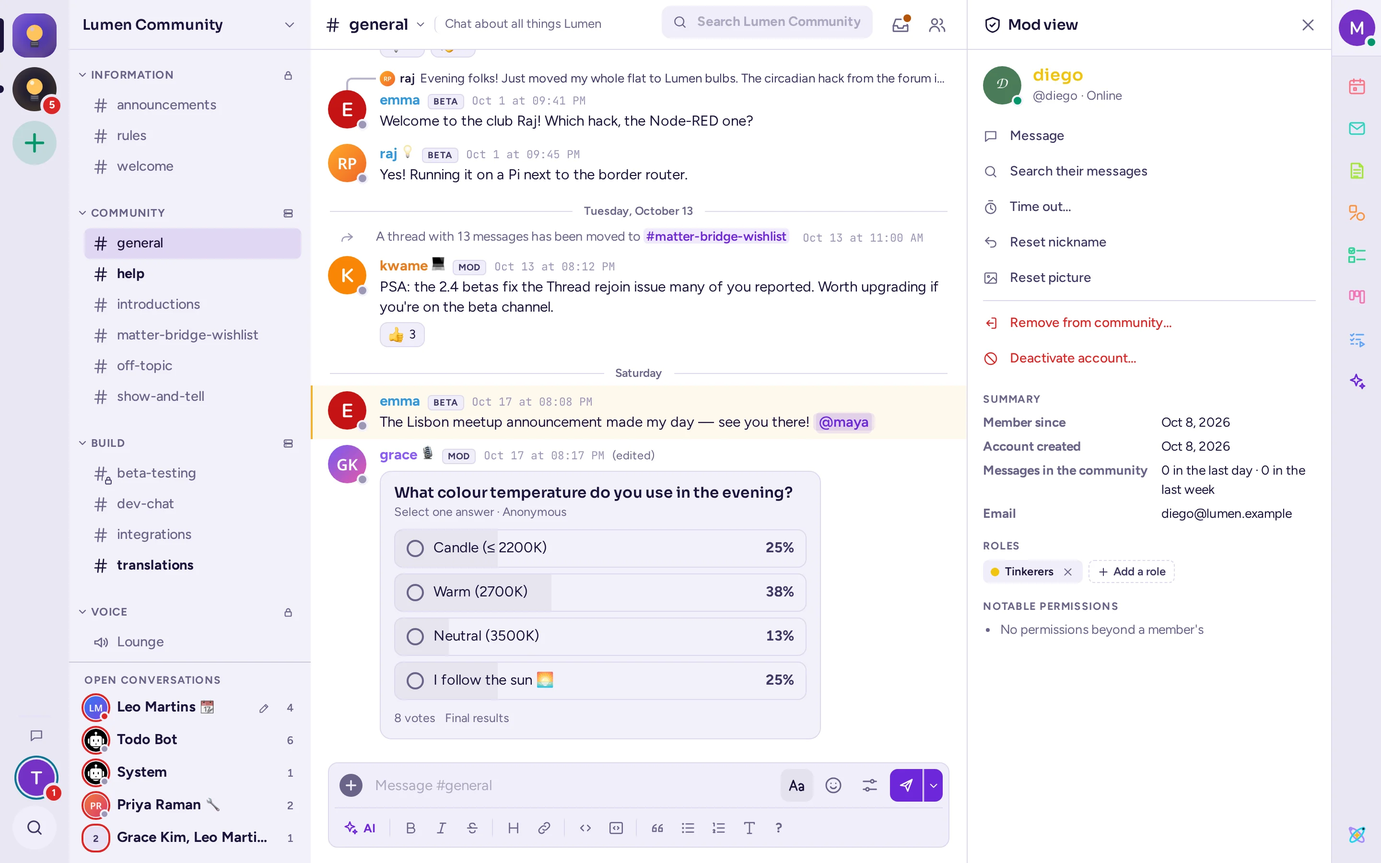
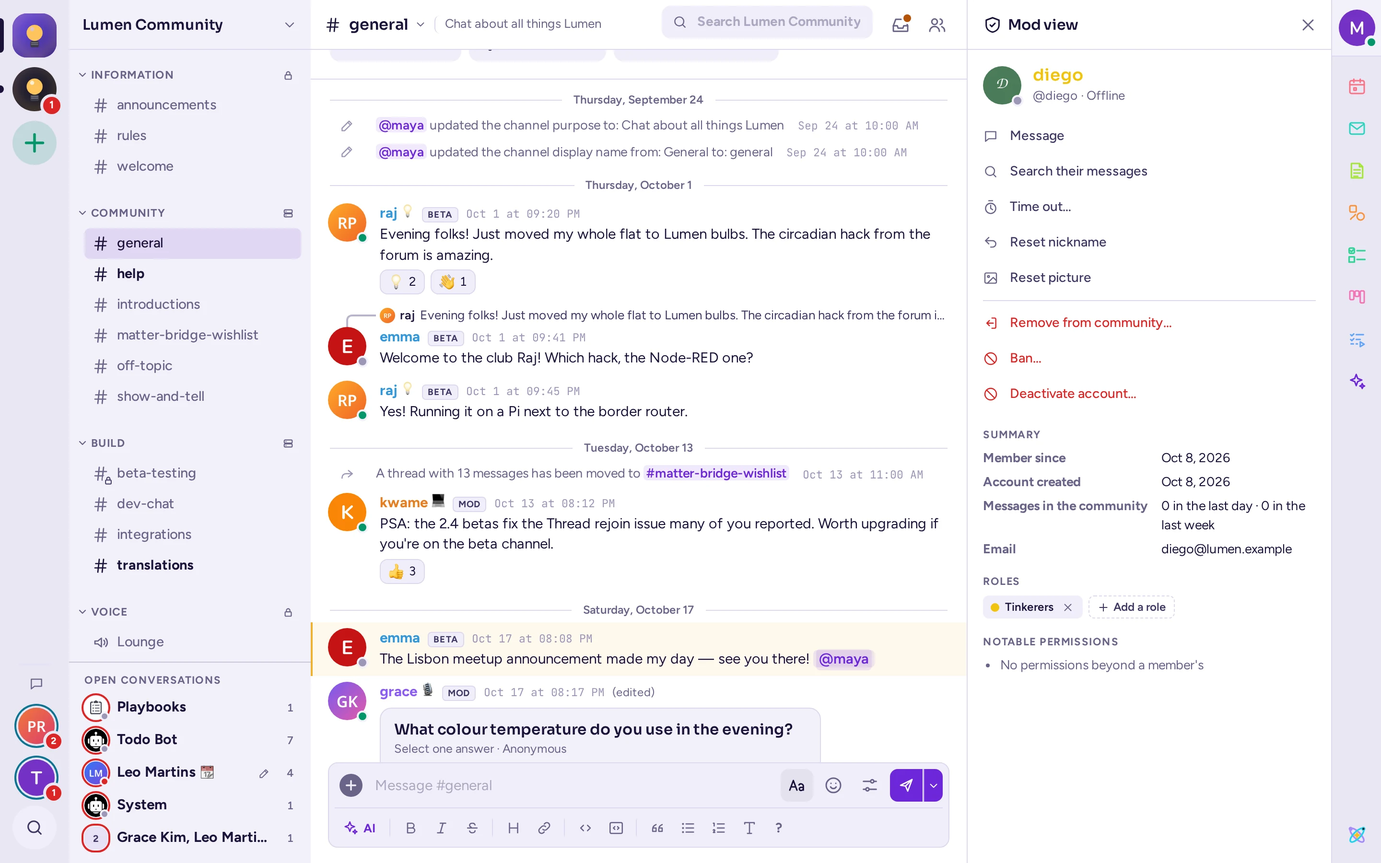
Docs: mobile app parity with the web app, bans and invite links
mobile-ui-1024a: the mobile app now shows the same new-sign-in warning
as the web app (users/profile-privacy.html).
mobile-ui-1024b: the mobile app shows the same community rules dialog
and composer notice as Fusion, not just the classic interface's slash
commands (users/messages.html, communities/members.html).
access-1024: bans (Ban…, the ban dialog, the ban list in Community
settings, Lift ban) and several invite links per community, each with
its own expiry and use limit (communities/moderation.html,
communities/members.html, communities/settings.html). New figures
ban-dialog.webp and ban-list.webp; mod-reset.webp re-shot with the new
Ban… button.

diff --git a/src/pages/docs/communities/moderation.html b/src/pages/docs/communities/moderation.html
@@ -16,7 +16,7 @@ lead: The tools Antimatter gives moderators, what each one does and doesn't do, 
 
 <h2 id="mod-view">The mod view</h2>
 <p>The mod view gathers what you need to know about one person, and the actions you can take. To open it, open someone's profile card and choose the shield button at the top right, or right-click their name and choose <b>Mod view</b>. It opens in the right-hand panel.</p>
-<p>Under who they are, and their timeout if they have one, come the actions you are allowed to take, each once: <b>Message</b>, <b>Search their messages</b>, <b>Time out…</b> (or <b>Remove timeout</b>), then, in red, <b>Remove from community…</b> and, for system admins, <b>Deactivate account…</b>. The red ones ask first. Below them:</p>
+<p>Under who they are, and their timeout if they have one, come the actions you are allowed to take, each once: <b>Message</b>, <b>Search their messages</b>, <b>Time out…</b> (or <b>Remove timeout</b>), then, in red, <b>Remove from community…</b>, <b>Ban…</b> and, for system admins, <b>Deactivate account…</b>. The red ones ask first. Below them:</p>
 <ul>
 <li><b>Summary</b>: when they joined the community (<b>Member since</b>), when their account was created, and how many messages they posted in the community in the last day and the last week.</li>
 <li><b>Roles</b>: their roles in the community. If you can manage roles, click <b>Add a role</b> and pick one of the roles they don't have, or remove one with its ×.</li>
@@ -40,17 +40,26 @@ lead: The tools Antimatter gives moderators, what each one does and doesn't do, 
 
 <h2 id="remove">Remove someone from the community</h2>
 <p>In the mod view or in their menu (right-click their name), choose <b>Remove from community…</b>, then confirm. They leave every channel of the community and lose their roles there; their messages stay. They are not told why: the community simply disappears from their rail.</p>
-<p>A removed person can come back with a new invitation, or straight away if the community is public. If they shouldn't come back, make the community private and regenerate its invitation link (see <a href="{{root}}docs/communities/settings.html#access">Who can join</a>), or see <a href="#bans">Keeping someone out</a>.</p>
+<p>A removed person can come back with a new invitation, or straight away if the community is public. If they shouldn't come back, ban them (see <a href="#bans">Keeping someone out</a>), or make the community private and regenerate its invitation link (see <a href="{{root}}docs/communities/settings.html#access">Who can join</a>).</p>
 <p>To remove someone from a single channel instead, right-click their name and choose <b>Remove from channel</b>, or type <code>/kick @username</code> in that channel. This isn't possible when everyone in the community is in every channel.</p>
 
 <h2 id="bans">Keeping someone out</h2>
-<p>Antimatter has no ban list. Your options, from the lightest:</p>
+<p>Your options, from the lightest:</p>
 <ul>
 <li>A <b>timeout</b> of up to a week.</li>
 <li><b>Removing</b> them, combined with a private community or a new invitation link.</li>
+<li>A <b>ban</b>: they leave every channel and can't come back by any way in — an open join, an invite link or code, an email invitation, group sync, or being added, even by an admin — until the ban ends or is lifted.</li>
 <li><b>Deactivating their account</b>, which a system admin does from the mod view or the System Console. They are signed out everywhere and can't sign in again until a system admin reactivates them. This applies to the whole server, not only your community, so it is meant for spammers and serious abuse.</li>
 </ul>
-
+<p>Anyone who may remove members can also ban them (below their own highest role; admins ban anyone but other admins). Choose <b>Ban…</b> in a person's menu or the mod view:</p>
+<ul>
+<li><b>Duration</b>: until it's lifted, 1, 7 or 30 days.</li>
+<li><b>Delete their messages</b> (optional, this community only, with the replies to them): none, the last hour, 6, 12 or 24 hours, or the last 3 or 7 days.</li>
+<li>An optional <b>Reason</b>, seen by moderators.</li>
+</ul>
+<figure><img src="{{root}}assets/img/shots/ban-dialog.webp" alt="The Ban dialog: Duration, Delete their messages, and a Reason field, with Cancel and Ban buttons"><figcaption>The <b>Ban…</b> dialog: how long, whether to delete recent messages, and why.</figcaption></figure>
+<p>The ban list — who, by whom, when, until when, and why — is in <b>Community settings › Members</b>, after the members, with <b>Lift ban</b> on each. Moderators lift their own bans and those of moderators not above them; admins lift any.</p>
+<figure><img src="{{root}}assets/img/shots/ban-list.webp" alt="The Banned section of Community settings, Members, showing one person banned, by whom, when and until when, with a Lift ban button"><figcaption>The ban list, in <b>Community settings › Members</b>.</figcaption></figure>
 <h2 id="messages">Delete and edit messages</h2>
 <p>With <b>Manage messages</b> (or as a community admin), open a message's ⋯ menu and choose <b>Delete</b>. Deleting a message removes it for everyone, with its replies, and can't be undone. Community admins can delete but, by default, can't edit other people's messages; a role with <b>Manage messages</b> can do both.</p>
 <p>Messages on top are in the moderators' hands: only a channel's admins, the community's admins and people with <b>Manage messages</b> put messages on top or remove them with <b>Remove from top</b>, so members can't take your announcements down. Pins are not: anyone who can read a channel can pin and unpin. See <a href="{{root}}docs/communities/channels.html#on-top">Messages put on top</a>.</p>
@@ -82,16 +91,18 @@ lead: The tools Antimatter gives moderators, what each one does and doesn't do, 
 
 <h2 id="calls">Calls and voice channels</h2>
 <p>Who can moderate a call: its host, community admins, channel admins and system admins. In voice channels, moderators with <b>Manage messages</b>, <b>Remove people</b> or <b>Manage roles</b> can too. You don't need to be in the call yourself.</p>
-<p>Right-click a participant's tile or row to open their menu:</p>
+<p>Right-click a participant's tile or row to open their menu. It only offers what you may do to that person: a call host ranks below a voice channel moderator, who ranks below a channel admin, then a community admin, then a system admin, and nobody acts on someone at or above their own rank, for any of these:</p>
 <ul>
 <li><b>Mute</b>: mutes them once; they can unmute themselves.</li>
-<li><b>Mute for this call</b>: they stay muted until you allow it, even if they leave and rejoin. Their microphone shows <b>Muted by a moderator</b>. The mute is kept for 10 minutes after they leave or the call ends, so leaving and rejoining doesn't get round it. <b>Allow to unmute</b> lifts it.</li>
+<li><b>Mute for this call</b> (voice channels: <b>Mute in this channel</b>, also kept for that channel's later calls): they stay muted until you allow it, even if they leave and rejoin. Their microphone shows <b>Muted by a moderator</b>. The mute is kept for 10 minutes after they leave or the call ends, so leaving and rejoining doesn't get round it. <b>Allow to unmute</b> lifts it.</li>
+<li>In voice channels only, <b>Deafen</b> (<b>Undeafen</b> once deafened): they hear nothing and can't speak there, also if they leave and rejoin, until you undeafen them.</li>
+<li>In voice channels only, <b>Move to</b>: moves them to another voice channel you moderate that they can join.</li>
 <li><b>Ask to unmute</b>: asks someone who is muted to speak. They see the request and choose to unmute or not. You can ask the same person again after 20 seconds.</li>
 <li><b>Lower hand</b> and <b>Stop screen share</b>.</li>
 <li><b>Kick from voice channel</b> or <b>Remove from call</b>: disconnects them. They can rejoin straight away; to keep them out, time them out.</li>
 </ul>
-<p>You can only mute for the call people who rank below you: a call host is below a voice channel moderator, who is below a channel admin, then a community admin, then a system admin.</p>
 <p>The host and system admins can also choose <b>Make host</b> in someone's menu, to give them the host controls.</p>
+<p>A voice channel's own settings have a <b>Muted and deafened</b> tab, for its moderators: who is muted or deafened, by whom and since when, with <b>Allow to unmute</b> and <b>Undeafen</b> there too (also for someone who is away, greyed out when another moderator above you gave it).</p>
 <h3 id="end-call">End a call for everyone</h3>
 <p>Hanging up only makes you leave a call. To end it for everyone, use the call's card in the conversation: once you are out of the call, the card shows <b>End call for everyone</b> next to <b>Join</b>. It is there for whoever started the call (except in voice channels) and for the call's moderators. Confirm with <b>End call</b>: everyone still in the call is disconnected, and the call ends.</p>
 
@@ -104,8 +115,8 @@ lead: The tools Antimatter gives moderators, what each one does and doesn't do, 
 <li><b>Keep the kind set to Guild</b> (<b>Community settings › General</b>), so that only admins and moderators with <b>Manage channels</b> archive channels.</li>
 <li><b>Limit what newcomers can do.</b> Ask your system admin for a permission scheme for your community where members can't rename channels or manage their members, which the default allows.</li>
 <li><b>Create a moderators role</b> with <b>Manage messages</b> and <b>Remove people</b>, shown separately so that people know whom to ask; the "Moderators" role of the layout presets has both. Keep a private channel for moderators.</li>
-<li><b>Escalate step by step</b>: a word in the channel, a direct message, a short timeout, a longer one, removal, then deactivation by a system admin for spam and abuse.</li>
-<li><b>Watch new accounts.</b> The mod view shows when an account was created and how much it posted. A wave of new accounts is easier to stop with a private community and a regenerated invite link.</li>
+<li><b>Escalate step by step</b>: a word in the channel, a direct message, a short timeout, a longer one, removal, a ban, then deactivation by a system admin for spam and abuse.</li>
+<li><b>Watch new accounts.</b> The mod view shows when an account was created and how much it posted. A wave of new accounts is easier to stop with a private community and a regenerated invite link, or with invite links that expire or have a limited number of uses (see <a href="{{root}}docs/communities/members.html#invite-link">Share an invite link</a>).</li>
 <li><b>Turn on reports</b> with reviewers who are your moderators, and reasons that fit your community.</li>
 <li><b>Know your server's member limit.</b> Communities have none by default, but a system admin can set one; if yours did, ask them to raise it before you reach it.</li>
 </ul>

diff --git a/docs/communities/moderation.html b/docs/communities/moderation.html
@@ -86,7 +86,7 @@
 
 <h2 id="mod-view">The mod view</h2>
 <p>The mod view gathers what you need to know about one person, and the actions you can take. To open it, open someone's profile card and choose the shield button at the top right, or right-click their name and choose <b>Mod view</b>. It opens in the right-hand panel.</p>
-<p>Under who they are, and their timeout if they have one, come the actions you are allowed to take, each once: <b>Message</b>, <b>Search their messages</b>, <b>Time out…</b> (or <b>Remove timeout</b>), then, in red, <b>Remove from community…</b> and, for system admins, <b>Deactivate account…</b>. The red ones ask first. Below them:</p>
+<p>Under who they are, and their timeout if they have one, come the actions you are allowed to take, each once: <b>Message</b>, <b>Search their messages</b>, <b>Time out…</b> (or <b>Remove timeout</b>), then, in red, <b>Remove from community…</b>, <b>Ban…</b> and, for system admins, <b>Deactivate account…</b>. The red ones ask first. Below them:</p>
 <ul>
 <li><b>Summary</b>: when they joined the community (<b>Member since</b>), when their account was created, and how many messages they posted in the community in the last day and the last week.</li>
 <li><b>Roles</b>: their roles in the community. If you can manage roles, click <b>Add a role</b> and pick one of the roles they don't have, or remove one with its ×.</li>
@@ -110,17 +110,26 @@
 
 <h2 id="remove">Remove someone from the community</h2>
 <p>In the mod view or in their menu (right-click their name), choose <b>Remove from community…</b>, then confirm. They leave every channel of the community and lose their roles there; their messages stay. They are not told why: the community simply disappears from their rail.</p>
-<p>A removed person can come back with a new invitation, or straight away if the community is public. If they shouldn't come back, make the community private and regenerate its invitation link (see <a href="../../docs/communities/settings.html#access">Who can join</a>), or see <a href="#bans">Keeping someone out</a>.</p>
+<p>A removed person can come back with a new invitation, or straight away if the community is public. If they shouldn't come back, ban them (see <a href="#bans">Keeping someone out</a>), or make the community private and regenerate its invitation link (see <a href="../../docs/communities/settings.html#access">Who can join</a>).</p>
 <p>To remove someone from a single channel instead, right-click their name and choose <b>Remove from channel</b>, or type <code>/kick @username</code> in that channel. This isn't possible when everyone in the community is in every channel.</p>
 
 <h2 id="bans">Keeping someone out</h2>
-<p>Antimatter has no ban list. Your options, from the lightest:</p>
+<p>Your options, from the lightest:</p>
 <ul>
 <li>A <b>timeout</b> of up to a week.</li>
 <li><b>Removing</b> them, combined with a private community or a new invitation link.</li>
+<li>A <b>ban</b>: they leave every channel and can't come back by any way in — an open join, an invite link or code, an email invitation, group sync, or being added, even by an admin — until the ban ends or is lifted.</li>
 <li><b>Deactivating their account</b>, which a system admin does from the mod view or the System Console. They are signed out everywhere and can't sign in again until a system admin reactivates them. This applies to the whole server, not only your community, so it is meant for spammers and serious abuse.</li>
 </ul>
-
+<p>Anyone who may remove members can also ban them (below their own highest role; admins ban anyone but other admins). Choose <b>Ban…</b> in a person's menu or the mod view:</p>
+<ul>
+<li><b>Duration</b>: until it's lifted, 1, 7 or 30 days.</li>
+<li><b>Delete their messages</b> (optional, this community only, with the replies to them): none, the last hour, 6, 12 or 24 hours, or the last 3 or 7 days.</li>
+<li>An optional <b>Reason</b>, seen by moderators.</li>
+</ul>
+<figure><img src="../../assets/img/shots/ban-dialog.webp" alt="The Ban dialog: Duration, Delete their messages, and a Reason field, with Cancel and Ban buttons"><figcaption>The <b>Ban…</b> dialog: how long, whether to delete recent messages, and why.</figcaption></figure>
+<p>The ban list — who, by whom, when, until when, and why — is in <b>Community settings › Members</b>, after the members, with <b>Lift ban</b> on each. Moderators lift their own bans and those of moderators not above them; admins lift any.</p>
+<figure><img src="../../assets/img/shots/ban-list.webp" alt="The Banned section of Community settings, Members, showing one person banned, by whom, when and until when, with a Lift ban button"><figcaption>The ban list, in <b>Community settings › Members</b>.</figcaption></figure>
 <h2 id="messages">Delete and edit messages</h2>
 <p>With <b>Manage messages</b> (or as a community admin), open a message's ⋯ menu and choose <b>Delete</b>. Deleting a message removes it for everyone, with its replies, and can't be undone. Community admins can delete but, by default, can't edit other people's messages; a role with <b>Manage messages</b> can do both.</p>
 <p>Messages on top are in the moderators' hands: only a channel's admins, the community's admins and people with <b>Manage messages</b> put messages on top or remove them with <b>Remove from top</b>, so members can't take your announcements down. Pins are not: anyone who can read a channel can pin and unpin. See <a href="../../docs/communities/channels.html#on-top">Messages put on top</a>.</p>
@@ -152,16 +161,18 @@
 
 <h2 id="calls">Calls and voice channels</h2>
 <p>Who can moderate a call: its host, community admins, channel admins and system admins. In voice channels, moderators with <b>Manage messages</b>, <b>Remove people</b> or <b>Manage roles</b> can too. You don't need to be in the call yourself.</p>
-<p>Right-click a participant's tile or row to open their menu:</p>
+<p>Right-click a participant's tile or row to open their menu. It only offers what you may do to that person: a call host ranks below a voice channel moderator, who ranks below a channel admin, then a community admin, then a system admin, and nobody acts on someone at or above their own rank, for any of these:</p>
 <ul>
 <li><b>Mute</b>: mutes them once; they can unmute themselves.</li>
-<li><b>Mute for this call</b>: they stay muted until you allow it, even if they leave and rejoin. Their microphone shows <b>Muted by a moderator</b>. The mute is kept for 10 minutes after they leave or the call ends, so leaving and rejoining doesn't get round it. <b>Allow to unmute</b> lifts it.</li>
+<li><b>Mute for this call</b> (voice channels: <b>Mute in this channel</b>, also kept for that channel's later calls): they stay muted until you allow it, even if they leave and rejoin. Their microphone shows <b>Muted by a moderator</b>. The mute is kept for 10 minutes after they leave or the call ends, so leaving and rejoining doesn't get round it. <b>Allow to unmute</b> lifts it.</li>
+<li>In voice channels only, <b>Deafen</b> (<b>Undeafen</b> once deafened): they hear nothing and can't speak there, also if they leave and rejoin, until you undeafen them.</li>
+<li>In voice channels only, <b>Move to</b>: moves them to another voice channel you moderate that they can join.</li>
 <li><b>Ask to unmute</b>: asks someone who is muted to speak. They see the request and choose to unmute or not. You can ask the same person again after 20 seconds.</li>
 <li><b>Lower hand</b> and <b>Stop screen share</b>.</li>
 <li><b>Kick from voice channel</b> or <b>Remove from call</b>: disconnects them. They can rejoin straight away; to keep them out, time them out.</li>
 </ul>
-<p>You can only mute for the call people who rank below you: a call host is below a voice channel moderator, who is below a channel admin, then a community admin, then a system admin.</p>
 <p>The host and system admins can also choose <b>Make host</b> in someone's menu, to give them the host controls.</p>
+<p>A voice channel's own settings have a <b>Muted and deafened</b> tab, for its moderators: who is muted or deafened, by whom and since when, with <b>Allow to unmute</b> and <b>Undeafen</b> there too (also for someone who is away, greyed out when another moderator above you gave it).</p>
 <h3 id="end-call">End a call for everyone</h3>
 <p>Hanging up only makes you leave a call. To end it for everyone, use the call's card in the conversation: once you are out of the call, the card shows <b>End call for everyone</b> next to <b>Join</b>. It is there for whoever started the call (except in voice channels) and for the call's moderators. Confirm with <b>End call</b>: everyone still in the call is disconnected, and the call ends.</p>
 
@@ -174,8 +185,8 @@
 <li><b>Keep the kind set to Guild</b> (<b>Community settings › General</b>), so that only admins and moderators with <b>Manage channels</b> archive channels.</li>
 <li><b>Limit what newcomers can do.</b> Ask your system admin for a permission scheme for your community where members can't rename channels or manage their members, which the default allows.</li>
 <li><b>Create a moderators role</b> with <b>Manage messages</b> and <b>Remove people</b>, shown separately so that people know whom to ask; the "Moderators" role of the layout presets has both. Keep a private channel for moderators.</li>
-<li><b>Escalate step by step</b>: a word in the channel, a direct message, a short timeout, a longer one, removal, then deactivation by a system admin for spam and abuse.</li>
-<li><b>Watch new accounts.</b> The mod view shows when an account was created and how much it posted. A wave of new accounts is easier to stop with a private community and a regenerated invite link.</li>
+<li><b>Escalate step by step</b>: a word in the channel, a direct message, a short timeout, a longer one, removal, a ban, then deactivation by a system admin for spam and abuse.</li>
+<li><b>Watch new accounts.</b> The mod view shows when an account was created and how much it posted. A wave of new accounts is easier to stop with a private community and a regenerated invite link, or with invite links that expire or have a limited number of uses (see <a href="../../docs/communities/members.html#invite-link">Share an invite link</a>).</li>
 <li><b>Turn on reports</b> with reviewers who are your moderators, and reasons that fit your community.</li>
 <li><b>Know your server's member limit.</b> Communities have none by default, but a system admin can set one; if yours did, ask them to raise it before you reach it.</li>
 </ul>

diff --git a/src/pages/docs/users/messages.html b/src/pages/docs/users/messages.html
@@ -18,7 +18,7 @@ lead: Everything about messages: writing and formatting them, replying, reacting
 <h3 id="rules">Agree to a community's rules</h3>
 <p>Some communities ask everyone to agree to their rules before posting in their channels. When you open such a community, a <b>Rules of …</b> dialog shows them: read them and click <b>I agree</b>. If you choose <b>Not now</b>, you can still read everything, but the message box of the community's channels is replaced by "Agree to the rules to post here", with <b>Read and agree</b>. When the community's admins change the rules and ask everyone to agree again, the dialog comes back. Direct and group messages are never held back.</p>
 <figure><img src="{{root}}assets/img/shots/rules-notice.webp" alt="The message box replaced by a notice: Agree to the rules to post here, with a Read and agree button"><figcaption>The composer, until you agree to the community's rules.</figcaption></figure>
-<p>In the mobile app and the classic interface, type <code>/rules</code> in one of the community's channels to read the rules, then <code>/rules agree</code> to agree to them.</p>
+<p>The mobile app shows the same dialog and notice. In the classic interface, type <code>/rules</code> in one of the community's channels to read the rules, then <code>/rules agree</code> to agree to them.</p>
 <div class="callout">Messages have a maximum length, set by your server. When you get close to it, a counter appears in the message box. If a message is too long, Antimatter tells you by how many characters, and does not send it.</div>
 <h3 id="moderators-only">Channels where only moderators post</h3>
 <p>In a text or voice channel set up so that only moderators start conversations, the message box is replaced by "Only moderators post here. Reply in a thread." if you aren't one. In a forum set up the same way, "New topic" and the other buttons that open a topic are hidden, and the one-line notice reads "Only moderators open topics here. Reply in a thread." instead. You can still reply in existing threads or topics (see <a href="{{root}}docs/communities/channels.html#type">The Type tab</a>).</p>
@@ -116,7 +116,7 @@ lead: Everything about messages: writing and formatting them, replying, reacting
 </ol>
 <p>In the channel, a message with replies shows who replied, how many replies there are, and when the last one came. Click it to open the thread. In the thread panel you can click <b>Open in a new window</b> to read it in a window of its own, or drag the panel's edge to make it wider. Press <kbd>Esc</kbd> or click <b>Close thread</b> to close it.</p>
 <h3>Follow threads</h3>
-<p>You follow a thread automatically when you start it, reply to it or are mentioned in it. When you follow a thread, new replies make it unread. To follow or stop following a thread, choose <b>Follow thread</b> or <b>Unfollow thread</b> in the message's <b>Message actions</b> menu, or in the thread panel's <b>Thread actions</b> menu (<b>⋯</b>). Find all the threads you follow under <b>Followed threads</b>: see <a href="{{root}}docs/users/search.html#collections">Mentions, saved and pinned messages</a>.</p>
+<p>You follow a thread automatically when you start it, reply to it or are mentioned in it. When you follow a thread, new replies make it unread. To follow or stop following a thread, choose <b>Follow thread</b> or <b>Unfollow thread</b> in the message's <b>Message actions</b> menu, or in the thread panel's <b>Thread actions</b> menu (<b>⋯</b>). That menu also has <b>Open in channel</b>, <b>Mark as read</b> (once there are unread replies, replacing <b>Mark as unread</b>) and <b>Save</b> or <b>Remove from saved</b>, matching the message's own Save. Find all the threads you follow under <b>Followed threads</b>: see <a href="{{root}}docs/users/search.html#collections">Mentions, saved and pinned messages</a>.</p>
 <p>By default, thread replies stay in their thread. If you prefer to see replies in the channel too, turn off <b>Keep replies in threads</b> in <b>Settings › Messages</b>, when your server offers the choice.</p>
 <h3>Make a thread a topic</h3>
 <p>A topic is a named conversation inside its channel: everyone who follows it sees it under the channel in their sidebar. You can make a thread you started a topic.</p>

diff --git a/docs/users/messages.html b/docs/users/messages.html
@@ -88,7 +88,7 @@
 <h3 id="rules">Agree to a community's rules</h3>
 <p>Some communities ask everyone to agree to their rules before posting in their channels. When you open such a community, a <b>Rules of …</b> dialog shows them: read them and click <b>I agree</b>. If you choose <b>Not now</b>, you can still read everything, but the message box of the community's channels is replaced by "Agree to the rules to post here", with <b>Read and agree</b>. When the community's admins change the rules and ask everyone to agree again, the dialog comes back. Direct and group messages are never held back.</p>
 <figure><img src="../../assets/img/shots/rules-notice.webp" alt="The message box replaced by a notice: Agree to the rules to post here, with a Read and agree button"><figcaption>The composer, until you agree to the community's rules.</figcaption></figure>
-<p>In the mobile app and the classic interface, type <code>/rules</code> in one of the community's channels to read the rules, then <code>/rules agree</code> to agree to them.</p>
+<p>The mobile app shows the same dialog and notice. In the classic interface, type <code>/rules</code> in one of the community's channels to read the rules, then <code>/rules agree</code> to agree to them.</p>
 <div class="callout">Messages have a maximum length, set by your server. When you get close to it, a counter appears in the message box. If a message is too long, Antimatter tells you by how many characters, and does not send it.</div>
 <h3 id="moderators-only">Channels where only moderators post</h3>
 <p>In a text or voice channel set up so that only moderators start conversations, the message box is replaced by "Only moderators post here. Reply in a thread." if you aren't one. In a forum set up the same way, "New topic" and the other buttons that open a topic are hidden, and the one-line notice reads "Only moderators open topics here. Reply in a thread." instead. You can still reply in existing threads or topics (see <a href="../../docs/communities/channels.html#type">The Type tab</a>).</p>
@@ -186,7 +186,7 @@
 </ol>
 <p>In the channel, a message with replies shows who replied, how many replies there are, and when the last one came. Click it to open the thread. In the thread panel you can click <b>Open in a new window</b> to read it in a window of its own, or drag the panel's edge to make it wider. Press <kbd>Esc</kbd> or click <b>Close thread</b> to close it.</p>
 <h3>Follow threads</h3>
-<p>You follow a thread automatically when you start it, reply to it or are mentioned in it. When you follow a thread, new replies make it unread. To follow or stop following a thread, choose <b>Follow thread</b> or <b>Unfollow thread</b> in the message's <b>Message actions</b> menu, or in the thread panel's <b>Thread actions</b> menu (<b>⋯</b>). Find all the threads you follow under <b>Followed threads</b>: see <a href="../../docs/users/search.html#collections">Mentions, saved and pinned messages</a>.</p>
+<p>You follow a thread automatically when you start it, reply to it or are mentioned in it. When you follow a thread, new replies make it unread. To follow or stop following a thread, choose <b>Follow thread</b> or <b>Unfollow thread</b> in the message's <b>Message actions</b> menu, or in the thread panel's <b>Thread actions</b> menu (<b>⋯</b>). That menu also has <b>Open in channel</b>, <b>Mark as read</b> (once there are unread replies, replacing <b>Mark as unread</b>) and <b>Save</b> or <b>Remove from saved</b>, matching the message's own Save. Find all the threads you follow under <b>Followed threads</b>: see <a href="../../docs/users/search.html#collections">Mentions, saved and pinned messages</a>.</p>
 <p>By default, thread replies stay in their thread. If you prefer to see replies in the channel too, turn off <b>Keep replies in threads</b> in <b>Settings › Messages</b>, when your server offers the choice.</p>
 <h3>Make a thread a topic</h3>
 <p>A topic is a named conversation inside its channel: everyone who follows it sees it under the channel in their sidebar. You can make a thread you started a topic.</p>

diff --git a/src/pages/docs/communities/members.html b/src/pages/docs/communities/members.html
@@ -17,7 +17,8 @@ lead: How people get into your community, how to welcome them with an onboarding
 <p>Inviting by email needs the server to send email, and email invitations to be turned on. If the server doesn't send email, you can still add people who already have an account. Ask your system admin if email addresses are refused.</p>
 <h3 id="invite-link">Share an invite link</h3>
 <p>In the same dialog, with <b>Member</b> selected, <b>Copy invite link</b> copies the community's invitation link. Anyone who opens it can create an account (if the server allows sign-up) and join the community. Share it in a newsletter, on a website or in a forum post.</p>
-<p>The link stays valid until you change it. If it ends up somewhere it shouldn't, create a new one with <b>Regenerate</b> in <b>Community settings › Access</b>: the old link then stops working. A community has one invitation link at a time.</p>
+<p>The link stays valid until you change it. If it ends up somewhere it shouldn't, create a new one with <b>Regenerate</b> in <b>Community settings › Access</b>: the old link then stops working. A community has one such invitation link at a time.</p>
+<p>Next to <b>Copy invite link</b>, <b>Invite links…</b> opens a list of other links, for when you want one that doesn't last forever. Creating one copies it, and lets you choose how long it lasts (30 minutes to 7 days, or never) and how many times it can be used (or no limit). The list shows who made each link, how many times it was used and when it ends, with <b>Copy</b> and <b>Revoke</b> for each. Members see their own links; community admins see everyone's. A link stops working once it expires, is used up, is revoked, or its creator leaves the community or may no longer invite people.</p>
 <h3 id="invite-from-menu">Invite someone you already know</h3>
 <p>To bring someone from another community into yours, right-click their name and choose <b>Invite to a community</b>, then the community. They are added at once.</p>
 <h3 id="open-communities">Open communities</h3>
@@ -55,7 +56,7 @@ lead: How people get into your community, how to welcome them with an onboarding
 </ol>
 <p>The channels you can offer are the public channels you are a member of. To remove the onboarding, delete its questions and its welcome text, and save.</p>
 <h3 id="newcomers">What newcomers see</h3>
-<p>If the community has rules that members must agree to (see <a href="{{root}}docs/communities/settings.html#rules">Rules</a>), newcomers first see a <b>Rules of …</b> dialog, with <b>I agree</b> and <b>Not now</b>. Until they agree, a notice, "Agree to the rules to post here", with <b>Read and agree</b>, takes the place of the message box in the community's channels. In the mobile app and the classic interface, they type <code>/rules</code> and <code>/rules agree</code>.</p>
+<p>If the community has rules that members must agree to (see <a href="{{root}}docs/communities/settings.html#rules">Rules</a>), newcomers first see a <b>Rules of …</b> dialog, with <b>I agree</b> and <b>Not now</b>. Until they agree, a notice, "Agree to the rules to post here", with <b>Read and agree</b>, takes the place of the message box in the community's channels. The mobile app shows the same dialog and notice; in the classic interface, they type <code>/rules</code> and <code>/rules agree</code>.</p>
 <p>The first time someone opens the community, a <b>Welcome to</b> dialog shows your text and questions. They pick their answers and choose <b>Done</b>, or choose <b>Skip</b>. Either way they don't see it again in that community. People who joined before you wrote the onboarding see it the next time they open the community.</p>
 <p>Members can change their open roles later from the community menu, under <b>Your roles…</b>.</p>
 <div class="callout">For a public community, combine the onboarding with a locked "Information" category holding a rules channel and an announcements channel, and a banner at the top of the rules channel (see <a href="{{root}}docs/communities/channels.html#settings">Channel settings</a>).</div>

diff --git a/docs/communities/members.html b/docs/communities/members.html
@@ -87,7 +87,8 @@
 <p>Inviting by email needs the server to send email, and email invitations to be turned on. If the server doesn't send email, you can still add people who already have an account. Ask your system admin if email addresses are refused.</p>
 <h3 id="invite-link">Share an invite link</h3>
 <p>In the same dialog, with <b>Member</b> selected, <b>Copy invite link</b> copies the community's invitation link. Anyone who opens it can create an account (if the server allows sign-up) and join the community. Share it in a newsletter, on a website or in a forum post.</p>
-<p>The link stays valid until you change it. If it ends up somewhere it shouldn't, create a new one with <b>Regenerate</b> in <b>Community settings › Access</b>: the old link then stops working. A community has one invitation link at a time.</p>
+<p>The link stays valid until you change it. If it ends up somewhere it shouldn't, create a new one with <b>Regenerate</b> in <b>Community settings › Access</b>: the old link then stops working. A community has one such invitation link at a time.</p>
+<p>Next to <b>Copy invite link</b>, <b>Invite links…</b> opens a list of other links, for when you want one that doesn't last forever. Creating one copies it, and lets you choose how long it lasts (30 minutes to 7 days, or never) and how many times it can be used (or no limit). The list shows who made each link, how many times it was used and when it ends, with <b>Copy</b> and <b>Revoke</b> for each. Members see their own links; community admins see everyone's. A link stops working once it expires, is used up, is revoked, or its creator leaves the community or may no longer invite people.</p>
 <h3 id="invite-from-menu">Invite someone you already know</h3>
 <p>To bring someone from another community into yours, right-click their name and choose <b>Invite to a community</b>, then the community. They are added at once.</p>
 <h3 id="open-communities">Open communities</h3>
@@ -125,7 +126,7 @@
 </ol>
 <p>The channels you can offer are the public channels you are a member of. To remove the onboarding, delete its questions and its welcome text, and save.</p>
 <h3 id="newcomers">What newcomers see</h3>
-<p>If the community has rules that members must agree to (see <a href="../../docs/communities/settings.html#rules">Rules</a>), newcomers first see a <b>Rules of …</b> dialog, with <b>I agree</b> and <b>Not now</b>. Until they agree, a notice, "Agree to the rules to post here", with <b>Read and agree</b>, takes the place of the message box in the community's channels. In the mobile app and the classic interface, they type <code>/rules</code> and <code>/rules agree</code>.</p>
+<p>If the community has rules that members must agree to (see <a href="../../docs/communities/settings.html#rules">Rules</a>), newcomers first see a <b>Rules of …</b> dialog, with <b>I agree</b> and <b>Not now</b>. Until they agree, a notice, "Agree to the rules to post here", with <b>Read and agree</b>, takes the place of the message box in the community's channels. The mobile app shows the same dialog and notice; in the classic interface, they type <code>/rules</code> and <code>/rules agree</code>.</p>
 <p>The first time someone opens the community, a <b>Welcome to</b> dialog shows your text and questions. They pick their answers and choose <b>Done</b>, or choose <b>Skip</b>. Either way they don't see it again in that community. People who joined before you wrote the onboarding see it the next time they open the community.</p>
 <p>Members can change their open roles later from the community menu, under <b>Your roles…</b>.</p>
 <div class="callout">For a public community, combine the onboarding with a locked "Information" category holding a rules channel and an announcements channel, and a banner at the top of the rules channel (see <a href="../../docs/communities/channels.html#settings">Channel settings</a>).</div>

diff --git a/src/pages/docs/communities/settings.html b/src/pages/docs/communities/settings.html
@@ -42,7 +42,7 @@ lead: The settings that belong to a community: its name and icon, who can join i
 <ul>
 <li><b>Discoverability</b>: a <b>Public Team</b> appears in the list of communities that anyone with an account on the server can browse and join. A <b>Private Team</b> can only be joined with an invitation. Switching from public to private creates a new invitation link and stops the old one from working.</li>
 <li><b>Allow only people with a specific email domain to join this community</b>: when this is checked, only people whose email address ends with one of the domains you list can join, for example <code>example.org</code>. Separate several domains with spaces or commas. This suits a company workspace; leave it off for a public community.</li>
-<li><b>Invite Code</b>: the code in the community's invitation link. <b>Regenerate</b> creates a new link and makes the previous one stop working. Do this if an invitation link was shared where it shouldn't have been.</li>
+<li><b>Invite Code</b>: the code in the community's invitation link. <b>Regenerate</b> creates a new link and makes the previous one stop working. Do this if an invitation link was shared where it shouldn't have been. It doesn't touch the other invite links members made (see <a href="{{root}}docs/communities/members.html#invite-link">Share an invite link</a>); revoke those one by one in <b>Invite people › Invite links…</b>.</li>
 </ul>
 <p>If the community's members come from linked groups (a directory such as LDAP, set up by a system admin), the Access tab says so, and these choices are replaced by the group sync.</p>
 <p>Joining also depends on how the server is set up: whether people can create an account at all, and from which email domains. These are server settings; ask your system admin (see <a href="{{root}}docs/communities/organisations.html#ask">What to ask your system admin</a>).</p>

diff --git a/src/pages/docs/users/profile-privacy.html b/src/pages/docs/users/profile-privacy.html
@@ -96,7 +96,7 @@ lead: How others see you, who can reach you, and how to keep your account safe.
 
 <h2 id="sessions">Where you are signed in</h2>
 <p><b>Settings › Security</b> lists, under <b>Where you're signed in</b>, each browser, desktop app and phone signed in to your account, with when it was last active. Click <b>Sign out</b> next to one you don't recognise or no longer use, and change your password if you think someone else used your account.</p>
-<p>While you are connected, a new sign-in to your account from any device, your own phone included, shows a warning at the top of the window: the app or browser and its system (for example "Firefox on Linux"), and the time. Click <b>Disconnect</b> to sign that session out, or <b>It's me</b> to dismiss the warning. Handling it on one device clears it from your others too; several stack, three at a time. Personal access tokens don't trigger a warning, and this warning only shows in Antimatter's interface, not in the classic web app or the mobile app.</p>
+<p>While you are connected, a new sign-in to your account from any device, your own phone included, shows a warning at the top of the window: the app or browser and its system (for example "Firefox on Linux"), and the time. Click <b>Disconnect</b> to sign that session out, or <b>It's me</b> to dismiss the warning. Handling it on one device clears it from your others too; several stack, three at a time. Personal access tokens don't trigger a warning, and this warning only shows in Antimatter's interface and the mobile app, not in the classic web app.</p>
 <p><b>Access history</b> (click <b>Show</b>) lists recent sign-ins and changes to your account, with where they came from.</p>
 <p>To sign out of the device you are using, click your picture at the top right, then <b>Log out</b>.</p>
 

diff --git a/docs/communities/settings.html b/docs/communities/settings.html
@@ -112,7 +112,7 @@
 <ul>
 <li><b>Discoverability</b>: a <b>Public Team</b> appears in the list of communities that anyone with an account on the server can browse and join. A <b>Private Team</b> can only be joined with an invitation. Switching from public to private creates a new invitation link and stops the old one from working.</li>
 <li><b>Allow only people with a specific email domain to join this community</b>: when this is checked, only people whose email address ends with one of the domains you list can join, for example <code>example.org</code>. Separate several domains with spaces or commas. This suits a company workspace; leave it off for a public community.</li>
-<li><b>Invite Code</b>: the code in the community's invitation link. <b>Regenerate</b> creates a new link and makes the previous one stop working. Do this if an invitation link was shared where it shouldn't have been.</li>
+<li><b>Invite Code</b>: the code in the community's invitation link. <b>Regenerate</b> creates a new link and makes the previous one stop working. Do this if an invitation link was shared where it shouldn't have been. It doesn't touch the other invite links members made (see <a href="../../docs/communities/members.html#invite-link">Share an invite link</a>); revoke those one by one in <b>Invite people › Invite links…</b>.</li>
 </ul>
 <p>If the community's members come from linked groups (a directory such as LDAP, set up by a system admin), the Access tab says so, and these choices are replaced by the group sync.</p>
 <p>Joining also depends on how the server is set up: whether people can create an account at all, and from which email domains. These are server settings; ask your system admin (see <a href="../../docs/communities/organisations.html#ask">What to ask your system admin</a>).</p>

diff --git a/docs/users/profile-privacy.html b/docs/users/profile-privacy.html
@@ -166,7 +166,7 @@
 
 <h2 id="sessions">Where you are signed in</h2>
 <p><b>Settings › Security</b> lists, under <b>Where you're signed in</b>, each browser, desktop app and phone signed in to your account, with when it was last active. Click <b>Sign out</b> next to one you don't recognise or no longer use, and change your password if you think someone else used your account.</p>
-<p>While you are connected, a new sign-in to your account from any device, your own phone included, shows a warning at the top of the window: the app or browser and its system (for example "Firefox on Linux"), and the time. Click <b>Disconnect</b> to sign that session out, or <b>It's me</b> to dismiss the warning. Handling it on one device clears it from your others too; several stack, three at a time. Personal access tokens don't trigger a warning, and this warning only shows in Antimatter's interface, not in the classic web app or the mobile app.</p>
+<p>While you are connected, a new sign-in to your account from any device, your own phone included, shows a warning at the top of the window: the app or browser and its system (for example "Firefox on Linux"), and the time. Click <b>Disconnect</b> to sign that session out, or <b>It's me</b> to dismiss the warning. Handling it on one device clears it from your others too; several stack, three at a time. Personal access tokens don't trigger a warning, and this warning only shows in Antimatter's interface and the mobile app, not in the classic web app.</p>
 <p><b>Access history</b> (click <b>Show</b>) lists recent sign-ins and changes to your account, with where they came from.</p>
 <p>To sign out of the device you are using, click your picture at the top right, then <b>Log out</b>.</p>
 
